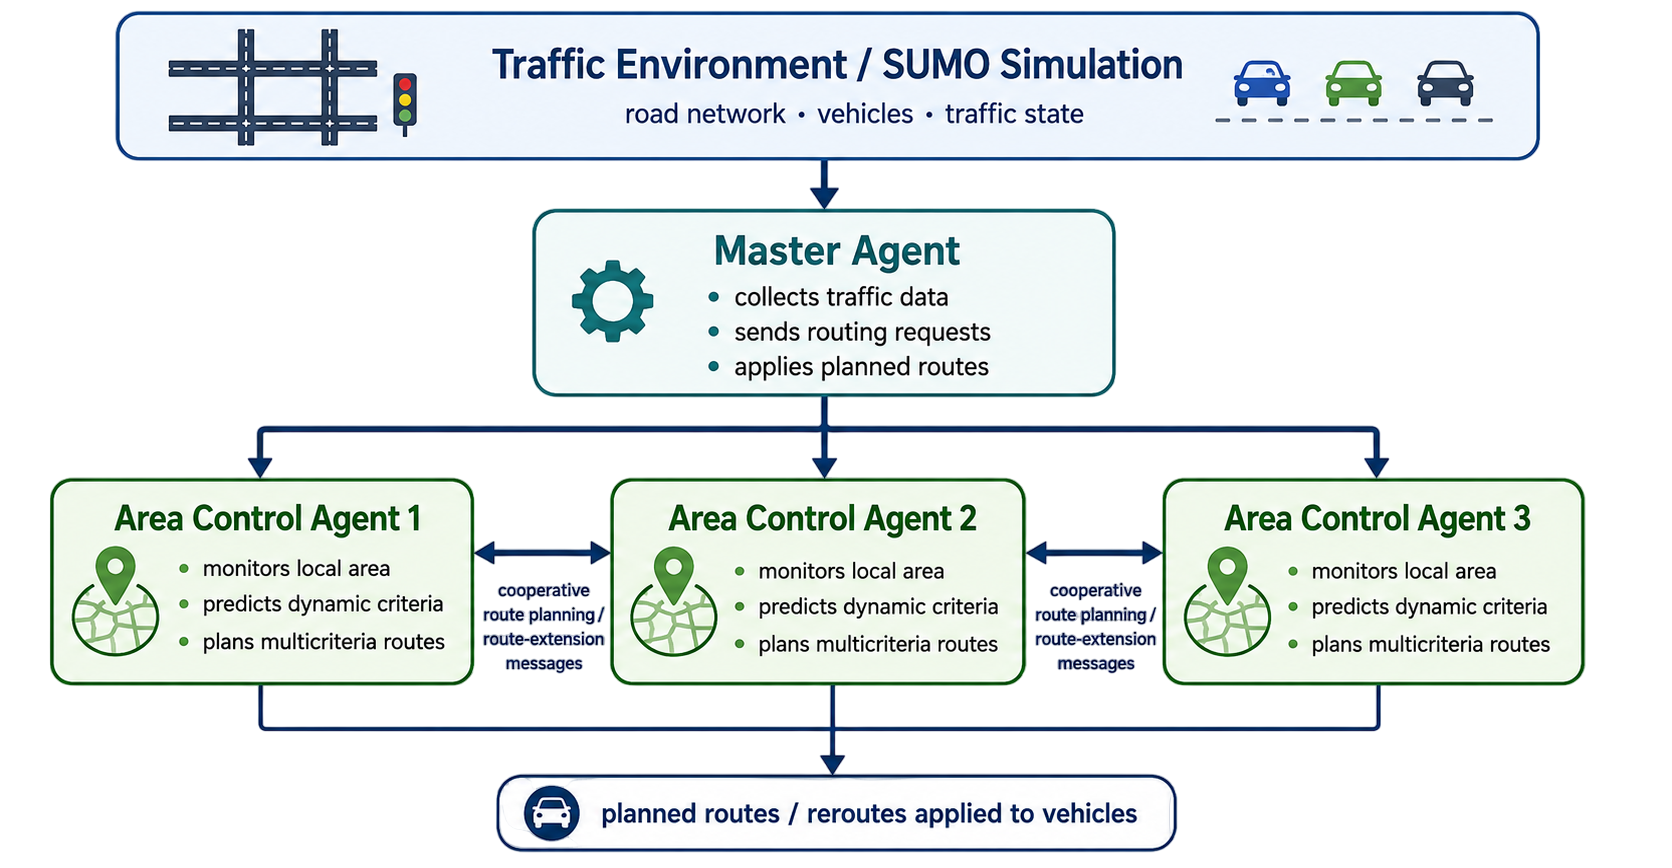
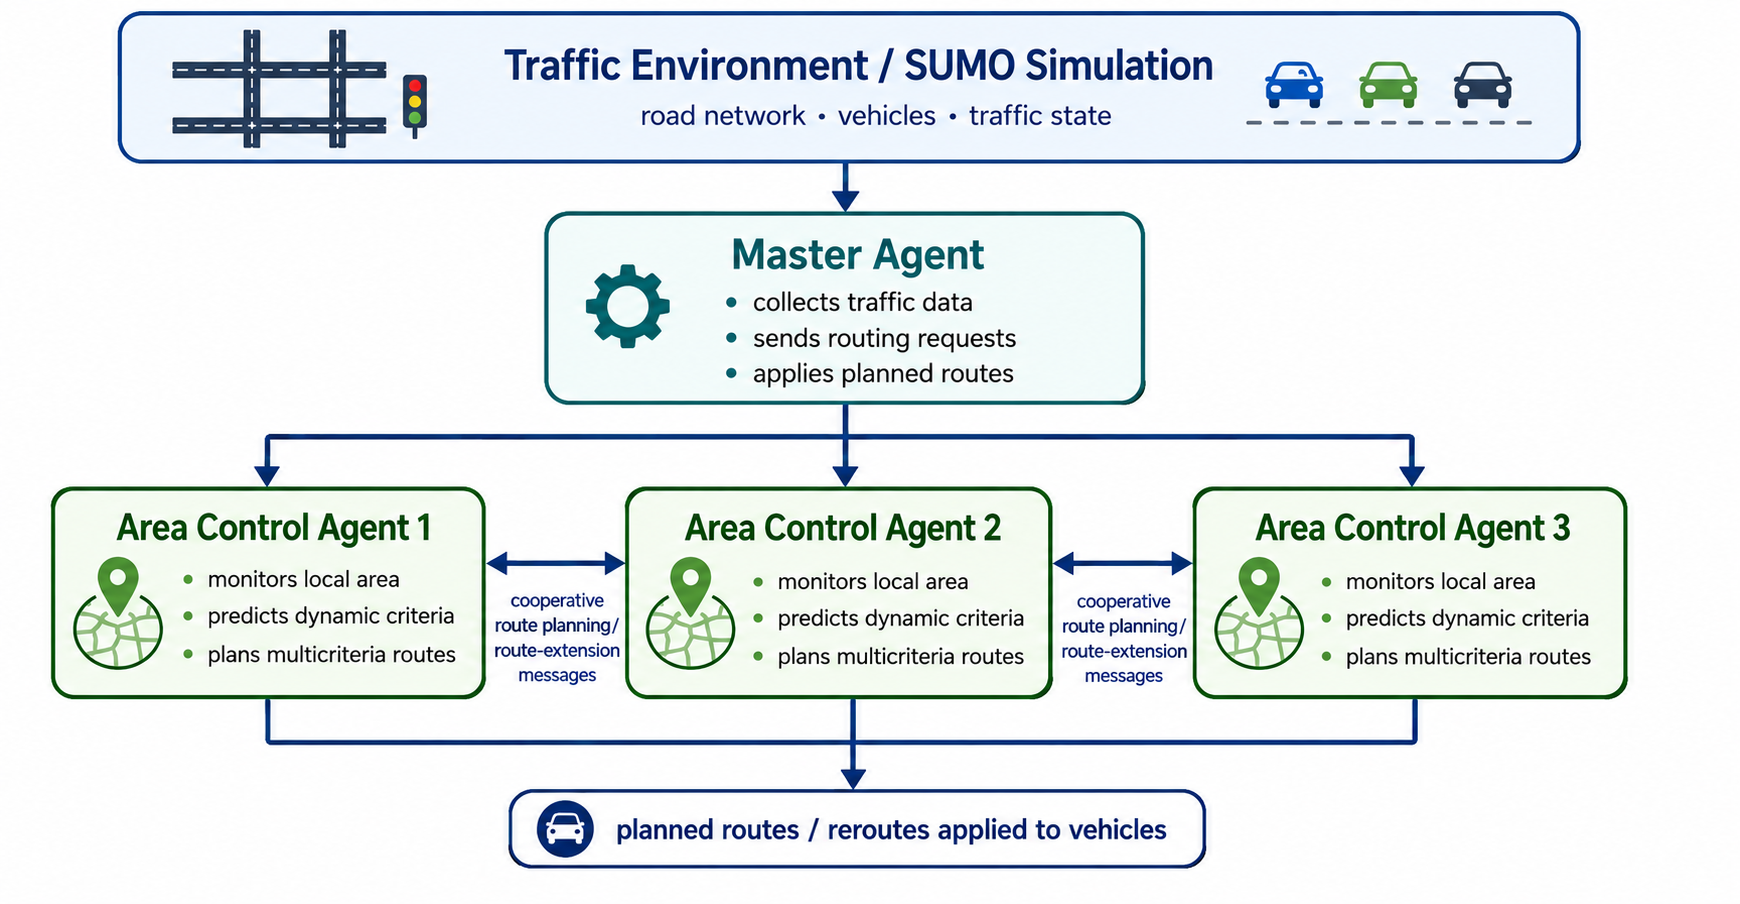
Clarify model version pin and smoke-check scope

Changed region(s): [[0.0311, 0.0, 0.9641, 0.9954]]

diff --git a/README.md b/README.md
@@ -42,7 +42,7 @@ python3 scripts/run_example.py
 
 The helper uses an existing `../sumo` checkout if it matches the pinned commit, otherwise `--fetch` downloads the pinned fork. It downloads and verifies the **XGBoost 3.0.5** source archive, then builds CPU-only libraries locally under `build/deps/`. It leaves sibling source trees unchanged. Internet access is needed for missing sources; subsequent builds can omit `--fetch`.
 
-The default example uses `scenarios/xgrid`, one area agent plus one master process, and 120 simulation steps. It is a bounded demonstration, not an experiment run. It writes each run to a fresh directory under `build/example-output/`:
+The default example uses `scenarios/xgrid`, one area agent plus one master process, and 120 simulation steps. This is a smoke check for startup, model loading, agent communication, and simulation output. It is too short to demonstrate traffic optimization or measure its benefits. Each run writes to a fresh directory under `build/example-output/`:
 
 | File | Contents |
 |---|---|
@@ -51,7 +51,7 @@ The default example uses `scenarios/xgrid`, one area agent plus one master proce
 | `edgedata.xml` | Edge statistics produced by SUMO |
 | `vehroutes.xml` | Vehicle routes, including unfinished trips at the stopping point |
 
-The runner checks the process exit status, parses all three XML files, and requires recorded vehicle routes. For a cooperative example with two area agents:
+The runner checks the process exit status, parses all three XML files, and requires recorded vehicle routes. For a short cooperative smoke check with two area agents:
 
 ```bash
 python3 scripts/run_example.py --agents 2 --steps 30
@@ -70,17 +70,21 @@ The current application reserves a 1 GiB MPI send buffer per process. Allow at l
 | xgrid models | Model files record XGBoost **3.0.0** |
 | InTAS models | Model files record XGBoost **3.0.5** |
 
-The supplied scenarios use the fork's `time-to-teleport.disable-jam` option. A stock SUMO package may not accept it, so the source helper and CI use the pinned fork. Model-file versions identify the library that saved each model; a separate original training environment is not bundled. XGBoost documents backward compatibility for saved models in its [Model IO guide](https://xgboost.readthedocs.io/en/stable/tutorials/saving_model.html#a-note-on-backward-compatibility-of-models-and-memory-snapshots). Native tests load and predict with all nine bundled model files using 3.0.5.
+XGBoost is pinned to **3.0.5** for the provided models and the original experiment environment. The supplied InTAS models were generated with 3.0.5; the xgrid files record 3.0.0 and are compatible with the pinned library. This pin applies to the bundled model set, not to the routing algorithm itself.
+
+If you train your own models, you can choose whichever XGBoost version you prefer and build against the matching inference library. Keep the expected feature order and output transforms, adapting the estimator integration if your chosen version changes the C API. The setup helper and bundled-model tests remain pinned to 3.0.5; use the manual CMake configuration below for a custom version.
+
+The supplied scenarios use the fork's `time-to-teleport.disable-jam` option. A stock SUMO package may not accept it, so the source helper and CI use the pinned fork.
 
 An existing local XGBoost source tree can be supplied with `--xgboost-source /path/to/xgboost`; it must identify itself as 3.0.5. For a SUMO checkout in another location, use `--sumo-source /path/to/sumo`.
 
-If the dependencies are already built, configure their locations explicitly:
+If the dependencies are already built, configure their locations explicitly. For your own models and XGBoost version, disable the bundled test suite with `BUILD_TESTING=OFF`:
 
 ```bash
-cmake -S . -B build-custom -DCMAKE_BUILD_TYPE=Release \
+cmake -S . -B build-custom -DCMAKE_BUILD_TYPE=Release -DBUILD_TESTING=OFF \
   -DSUMO_HOME=/path/to/sumo-source \
   -DSUMO_LIBRARY_DIR=/path/to/sumo-library-directory \
-  -DXGBOOST_ROOT=/path/to/xgboost-3.0.5-source \
+  -DXGBOOST_ROOT=/path/to/your-xgboost-source \
   -DXGBOOST_LIBRARY_DIR=/path/to/xgboost-library-directory
 cmake --build build-custom --parallel 4
 ```
@@ -114,21 +118,6 @@ mpiexec -n 2 build/MASHierarchicalSystem \
 `--help` lists all options. Direct invocation writes outputs under the scenario directory by default; `--tripinfo`, `--edgedata`, and `--vehroutes` also accept absolute paths to existing output directories. The Python runner handles directory creation and output isolation. Use `--scenario scenarios/intas` with the runner to select InTAS; it is substantially larger and may need a longer timeout.
 
 For Slurm, submit `sbatch submit_jobs.sh` from the repository root after configuring the MPI/SUMO environment. The script defaults to a short xgrid run and two tasks. When overriding `AGENTS`, request `AGENTS + 1` tasks with `sbatch --ntasks=...`.
-
-## Verification
-
-The [GitHub Actions workflow](.github/workflows/ci.yml) defines two jobs: dependency-free regression checks under sanitizers, and a Linux build of the pinned dependencies followed by native model-loading, CLI, and xgrid smoke tests. Smoke artifacts are retained for inspection. Workflow configuration is not evidence of a successful hosted CI run; check the repository's Actions results.
-
-Quick checks do not need SUMO, MPI, or XGBoost:
-
-```bash
-cmake -S . -B build-tests -DBUILD_ROUTER=OFF
-ctest --test-dir build-tests --output-on-failure
-```
-
-These checks exercise the actual reroute-selection and reactive-orchestration method bodies against a small state fixture, plus scenario references, partition indices, model feature counts, saved-model versions, setup-cache reuse, interrupted-fetch retries, and dependency rejection. The fixture uses the real graph types but replaces prediction, replanning, and MPI boundaries. It is not an end-to-end correctness proof.
-
-Full CTest runs additionally verify the XGBoost runtime version, model inference, CLI startup, and (when enabled) one- and two-agent simulations. The smoke cases use 30 simulation steps. The default example runs 120 steps and reaches periodic synchronization and rerouting calls; it does not guarantee that congestion triggers a reactive reroute.
 
 ## Research context and limits
 
